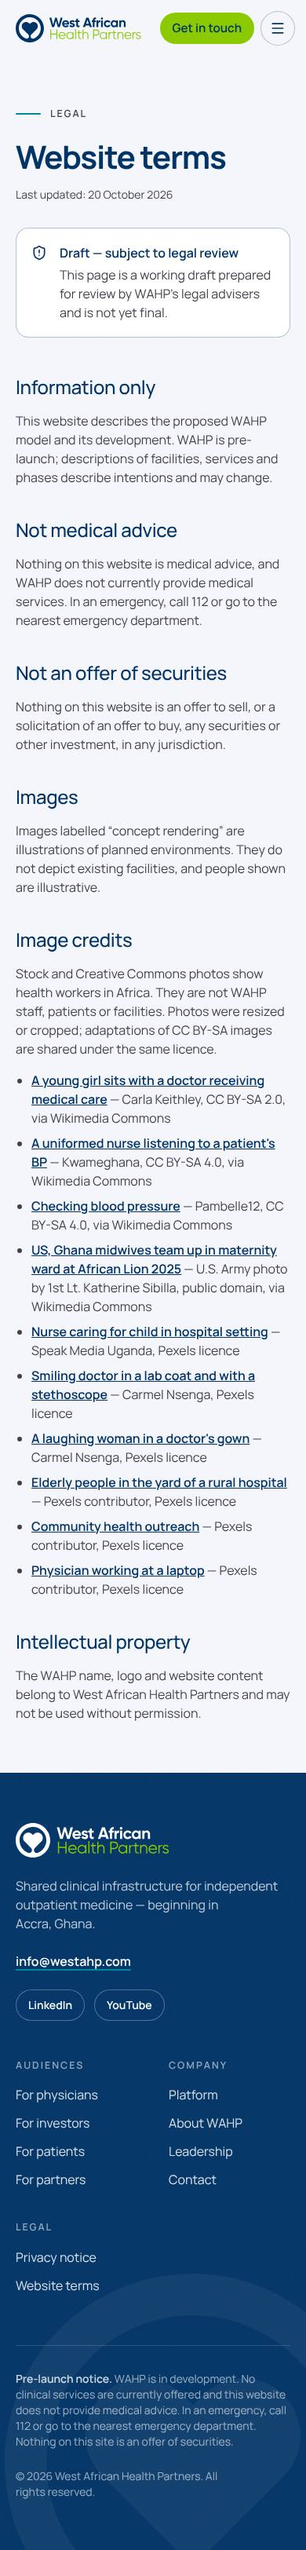
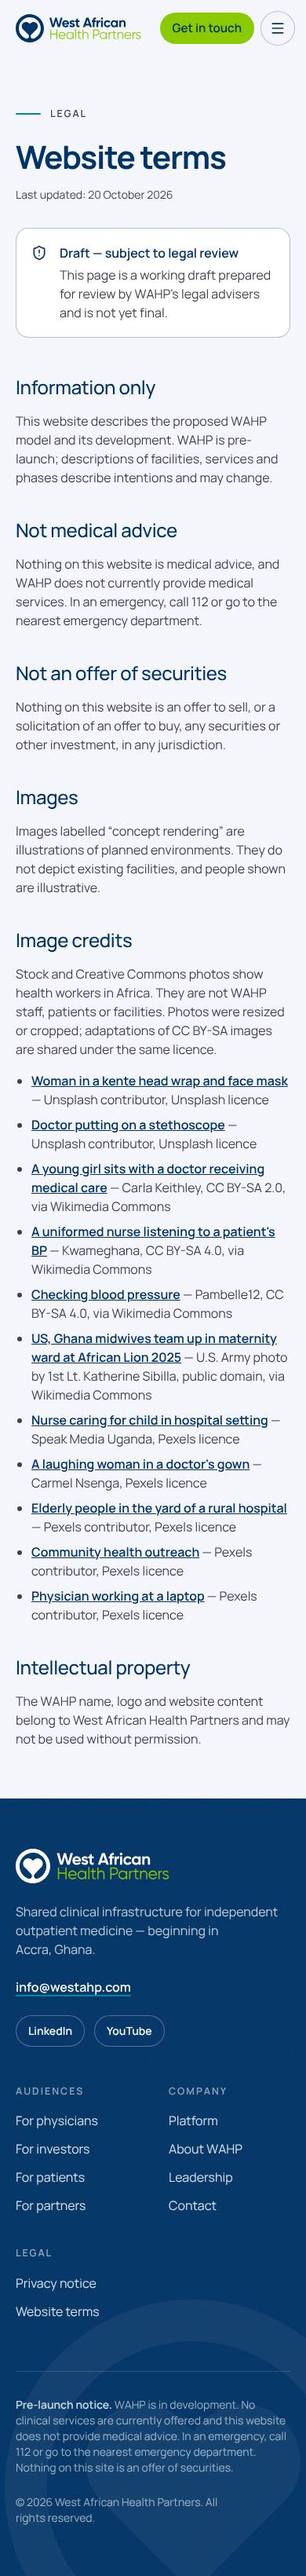
Add owner-supplied Unsplash photos from westahp.com
Use the doctor-with-stethoscope photo in the Physicians diaspora section
(replacing the Kinshasa lab-coat photo) and re-encode the Patients hero
portrait from its 2500px original. Both are credited as Unsplash on the
image and on the Terms page.

Claude-Session: https://claude.ai/code/session_01HnAJZsQvwk15KduVTL9xGz

diff --git a/src/components/ui/site-image.tsx b/src/components/ui/site-image.tsx
@@ -16,7 +16,7 @@ import nurseChildWard from "../../../public/images/photos/nurse-child-ward.webp"
 import villageHospitalYard from "../../../public/images/photos/village-hospital-yard.webp";
 import physicianLaptop from "../../../public/images/photos/physician-laptop.webp";
 import doctorClinicKinshasa from "../../../public/images/photos/doctor-clinic-kinshasa.webp";
-import doctorLabcoatKinshasa from "../../../public/images/photos/doctor-labcoat-kinshasa.webp";
+import doctorStethoscope from "../../../public/images/photos/doctor-stethoscope.webp";
 import communityOutreach from "../../../public/images/photos/community-outreach.webp";
 
 /**
@@ -70,7 +70,8 @@ const images = {
   },
   patientPortrait: {
     src: patientPortrait,
-    kind: "illustrative",
+    kind: "stock",
+    credit: "Photo: Unsplash",
     alt: "An older woman in a kente head wrap and face mask.",
   },
   clinicInterior: {
@@ -128,12 +129,11 @@ const images = {
     credit: "Photo: Carmel Nsenga / Pexels",
     alt: "A smiling doctor in green scrubs with a stethoscope in a clinic.",
   },
-  doctorLabcoatKinshasa: {
-    src: doctorLabcoatKinshasa,
+  doctorStethoscope: {
+    src: doctorStethoscope,
     kind: "stock",
-    position: "50% 22%",
-    credit: "Photo: Carmel Nsenga / Pexels",
-    alt: "A doctor in a white lab coat with a stethoscope stands in a clinic.",
+    credit: "Photo: Unsplash",
+    alt: "A doctor in a white coat puts on her stethoscope.",
   },
   communityOutreach: {
     src: communityOutreach,

diff --git a/src/app/terms/page.tsx b/src/app/terms/page.tsx
@@ -9,6 +9,18 @@ export const metadata: Metadata = {
 
 const credits = [
   {
+    title: "Woman in a kente head wrap and face mask",
+    by: "Unsplash contributor",
+    licence: "Unsplash licence",
+    href: "https://unsplash.com/photos/gi3Jox2cdrI",
+  },
+  {
+    title: "Doctor putting on a stethoscope",
+    by: "Unsplash contributor",
+    licence: "Unsplash licence",
+    href: "https://unsplash.com/photos/9aBsCd9Fvgc",
+  },
+  {
     title: "A young girl sits with a doctor receiving medical care",
     by: "Carla Keithley",
     licence: "CC BY-SA 2.0, via Wikimedia Commons",
@@ -37,12 +49,6 @@ const credits = [
     by: "Speak Media Uganda",
     licence: "Pexels licence",
     href: "https://www.pexels.com/photo/34185202/",
-  },
-  {
-    title: "Smiling doctor in a lab coat and with a stethoscope",
-    by: "Carmel Nsenga",
-    licence: "Pexels licence",
-    href: "https://www.pexels.com/photo/19218034/",
   },
   {
     title: "A laughing woman in a doctor's gown",

diff --git a/src/app/physicians/page.tsx b/src/app/physicians/page.tsx
@@ -136,7 +136,7 @@ export default function PhysiciansPage() {
               delivery back home — at whatever pace makes sense.
             </p>
           </SectionIntro>
-          <SiteImage name="doctorLabcoatKinshasa" className="reveal" aspect="aspect-[4/3]" dark />
+          <SiteImage name="doctorStethoscope" className="reveal" aspect="aspect-[4/3]" dark />
         </div>
         <div className="mt-14 grid gap-4 md:grid-cols-2">
           {[

diff --git a/docs/ASSET_INVENTORY.md b/docs/ASSET_INVENTORY.md
@@ -34,13 +34,14 @@
 | `midwives-newborn.webp` | Wikimedia Commons, "US, Ghana midwives team up in maternity ward at African Lion 2025" | Public domain (U.S. Government) | U.S. Army, 1st Lt. Katherine Sibilla |
 | `nurse-child-ward.webp` | Pexels 34185202 | Pexels licence | Speak Media Uganda |
 | `doctor-clinic-kinshasa.webp` | Pexels 18844981 (Kinshasa) | Pexels licence | Carmel Nsenga |
-| `doctor-labcoat-kinshasa.webp` | Pexels 19218034 (Kinshasa) | Pexels licence | Carmel Nsenga |
+| `doctor-stethoscope.webp` | Unsplash 9aBsCd9Fvgc, supplied by the owner from westahp.com (Squarespace CDN) | Unsplash licence | Unsplash contributor (name to confirm) |
+| `patient-portrait.webp` | Unsplash gi3Jox2cdrI, supplied by the owner from westahp.com; re-encoded from the 2500px original | Unsplash licence | Unsplash contributor (name to confirm) |
 | `village-hospital-yard.webp` | Pexels 4483669 | Pexels licence | Pexels contributor (name to confirm) |
 | `community-outreach.webp` | Pexels 4483695 | Pexels licence | Pexels contributor (name to confirm) |
 | `physician-laptop.webp` | Pexels 4989179 | Pexels licence | Pexels contributor (name to confirm) |
 
-**Removed** (replaced by the photos above): the source-site photos `physician-consultation`, `clinic-conversation`, `pillar-suites`, `pillar-digital`, `patient-checkup`, `hospital-corridor`, `physician-with-patient`, `diaspora-physician`, `investor-banner`, `family-consultation` and `partners-meeting` (Home investors card now uses `clinic-interior`).
+**Removed** (replaced by the photos above): the source-site photos `physician-consultation`, `clinic-conversation`, `pillar-suites`, `pillar-digital`, `patient-checkup`, `hospital-corridor`, `physician-with-patient`, `diaspora-physician`, `investor-banner`, `family-consultation` and `partners-meeting` (Home investors card now uses `clinic-interior`). Later, `doctor-labcoat-kinshasa` was replaced by `doctor-stethoscope` in the Physicians diaspora section.
 
-**Kept from the source sites (no doctor shown):** `pillar-laboratory`, `pillar-imaging` (technologist), `patient-portrait`, `clinic-interior`, `founders`, `patient-journey`.
+**Kept from the source sites (no doctor shown):** `pillar-laboratory`, `pillar-imaging` (technologist), `clinic-interior`, `founders`, `patient-journey`.
 
 **Not used:** stock photos showing identifiable public figures or named individuals (for example, a UK minister's hospital visit and a profile photo of a named Korle Bu nurse), and US military surgical-mission photos.

diff --git a/docs/IMPLEMENTATION_LOG.md b/docs/IMPLEMENTATION_LOG.md
@@ -78,3 +78,10 @@
 
 - Kept: the laboratory and MRI pillar images, the patient portrait, the clinic interior and the founders photo. Removed the Contact page image and 11 superseded photo files.
 - Still to confirm: three Pexels photographer names (credited as "Pexels" for now); see `ASSET_INVENTORY.md`.
+
+## 21 Oct 2026, owner-supplied Unsplash photos
+
+- Added two photos the owner linked from westahp.com (both Unsplash, Unsplash licence):
+  - `doctor-stethoscope`: a doctor putting on her stethoscope. It replaces the Kinshasa lab-coat photo in the Physicians diaspora section.
+  - `patient-portrait`: the Patients hero portrait, re-encoded from the 2500px original. Reclassified from "illustrative" to "stock", so it now shows a credit instead of the badge.
+- Both are listed on `/terms#image-credits`. Photographer names are still to confirm, because unsplash.com blocks automated lookups.
